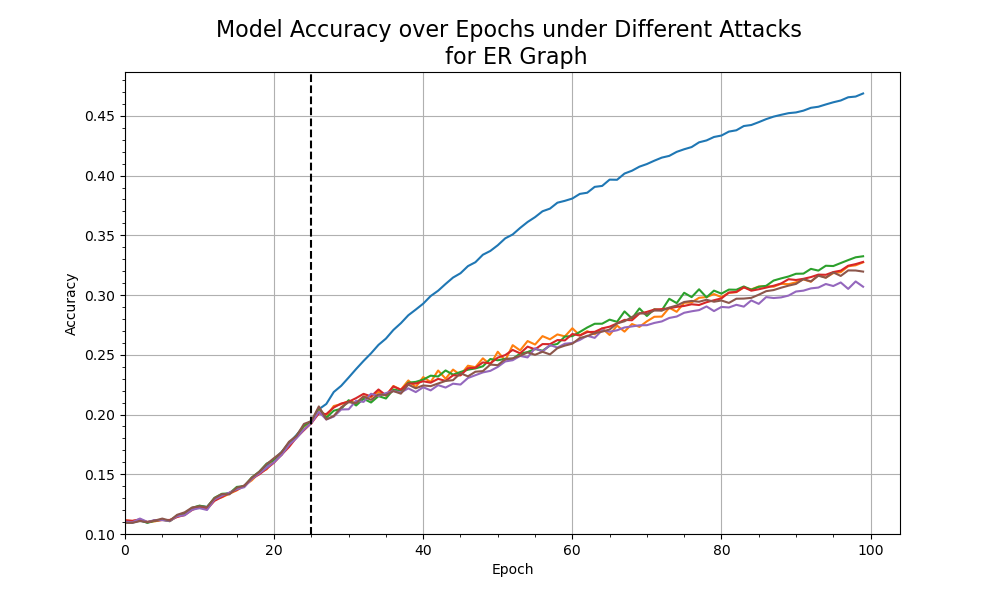
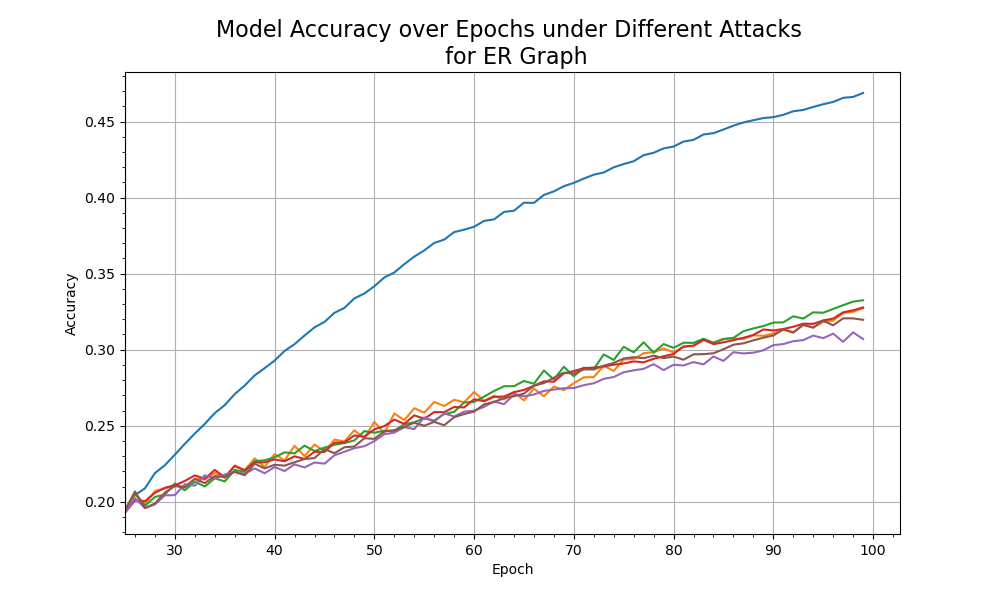
more data

diff --git a/code/simulation_code/plot_data.py b/code/simulation_code/plot_data.py
@@ -216,14 +216,14 @@ def plot_acc_aver(graph_type_used = '', dataset_name = 'fmnist', seed_range = 50
             if any([x == None for x in aver_cent_data.values()]):
                 continue
             for cent, acc_aver in aver_cent_data.items():
-                plt.plot(range(len(acc_aver)), acc_aver, label = cent_name_dir[cent])
+                plt.plot(range(25, len(acc_aver)), acc_aver[25:], label = cent_name_dir[cent])  # start plotting from 25th epoch
             plt.title('Model Accuracy over Epochs under Different Attacks \n for %s Graph' % (graph_type_name), fontsize=16)
             plt.xlabel('Epoch') 
             plt.ylabel('Accuracy') 
             plt.minorticks_on()
             plt.grid(True)
-            plt.ylim(0.1, plt.ylim()[-1])
-            plt.xlim(0, plt.xlim()[-1])
+            plt.ylim(plt.ylim()[0], plt.ylim()[-1])
+            plt.xlim(25, plt.xlim()[-1])  # start x-axis from 25th epoch
             plt.vlines(x = 25, ymin = 0, ymax = plt.ylim()[1], colors = 'black', linestyles = 'dashed', label = 'Attack starts')
             # plt.legend()
             plt.savefig(dir_graphs + graph_type_used + '_' + acc_fname + '_iid_type_%s.png' % iid_type)
@@ -1014,11 +1014,11 @@ if __name__ == '__main__':
     # make_graphs()    
     #for i in range(0, 11):
     #    score_graph_types_centralities_similarity('fmnist', float(i) / 10)
-    make_similarity_graphs('fmnist')
+    # make_similarity_graphs('fmnist')
     # make_variance_histograms('fmnist')
     #x = calc_centrality_measure_aver_variance('ER_graph_c_20_p_01')
     # print(x)
-    # plot_acc_aver('k_out_graph_c_20_k_10', 'fmnist')
+    plot_acc_aver('k_out_graph_c_20_k_15', 'fmnist')
     # plot_acc_aver_snap('SNAP_Cisco_c_28_type_g20', 'fmnist')
     # plot_scored_tradeoff_time_centrality('ER_graph_c_20_p_09', 'fmnist', 50)
     # calc_centrality_measure_aver_variance('dir_geom_graph_c_20_type_2d_close_nodes_seed_0.txt')
